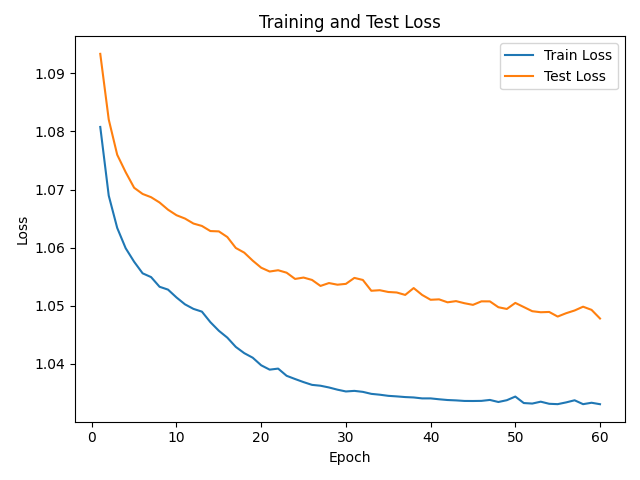
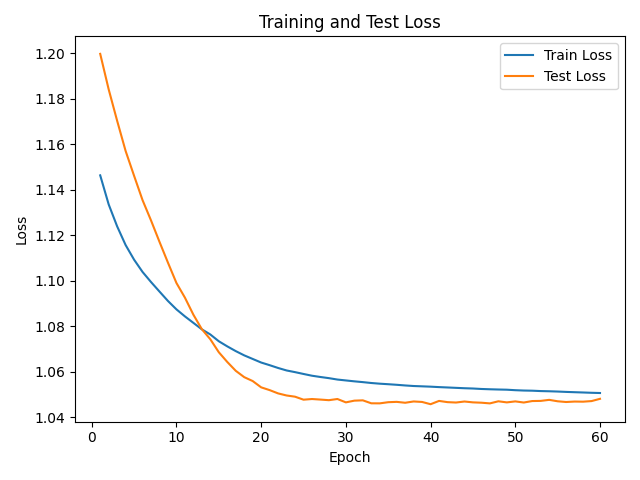
vqc 4500samples pca8 v2

diff --git a/QML/vqc.py b/QML/vqc.py
@@ -22,8 +22,8 @@ EPOCHS = 60
 BATCH_SIZE = 16
 LEARNING_RATE = 0.003
 
-MODEL_SAVE_PATH = "vqc_4500_pca8_multiclass_best.joblib"
-HISTORY_SAVE_PATH = "vqc_4500_pca8_multiclass_best_history.joblib"
+MODEL_SAVE_PATH = "vqc_4500_pca8_multiclass_v2.joblib"
+HISTORY_SAVE_PATH = "vqc_4500_pca8_multiclass_v2_history.joblib"
 
 LABEL_NAMES = {
     0: "normal",
@@ -62,10 +62,6 @@ print("Test shape:", X_test.shape)
 print("Train label distribution:", dict(zip(*np.unique(y_train, return_counts=True))))
 print("Test label distribution:", dict(zip(*np.unique(y_test, return_counts=True))))
 
-scaler = MinMaxScaler(feature_range=(0, np.pi))
-
-X_train = scaler.fit_transform(X_train)
-X_test = scaler.transform(X_test)
 dev = qml.device("default.qubit", wires=N_QUBITS)
 
 def variational_layer(weights):
@@ -81,11 +77,9 @@ def circuit(x, weights):
     for layer in range(N_LAYERS):
 
         # encoding
-        qml.templates.AngleEmbedding(
-            x,
-            wires=range(N_QUBITS),
-            rotation="Y"
-        )
+        for i in range(N_QUBITS):
+            qml.RY(x[i], wires=i)
+            qml.RZ(x[i], wires=i)
 
         # structured variational layer
         qml.templates.StronglyEntanglingLayers(
